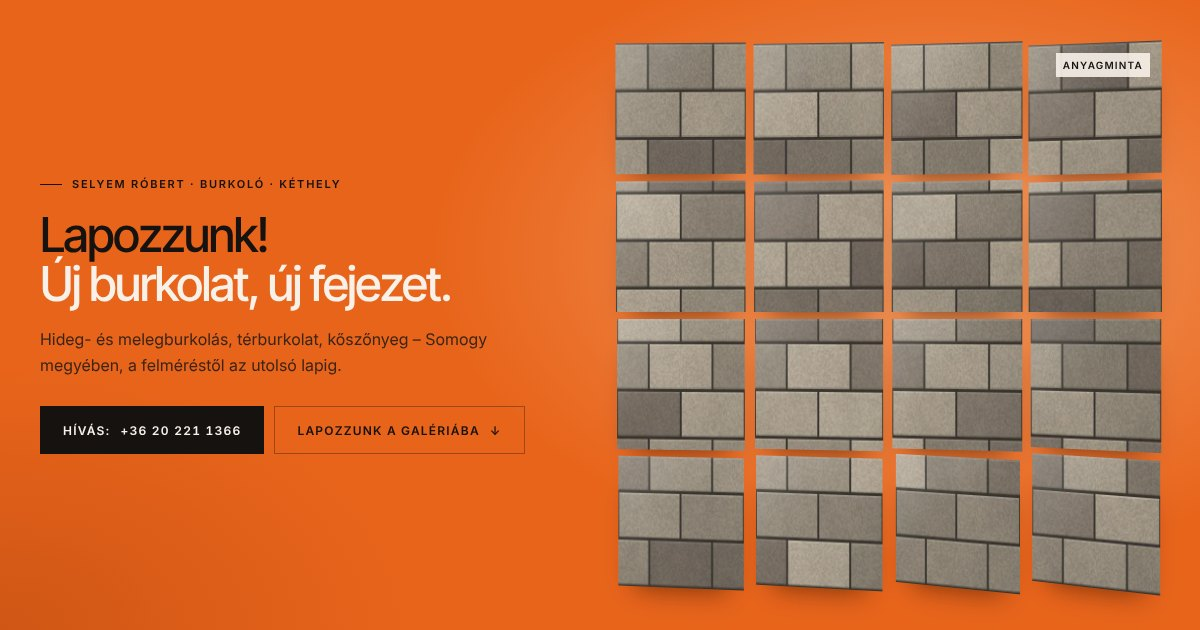
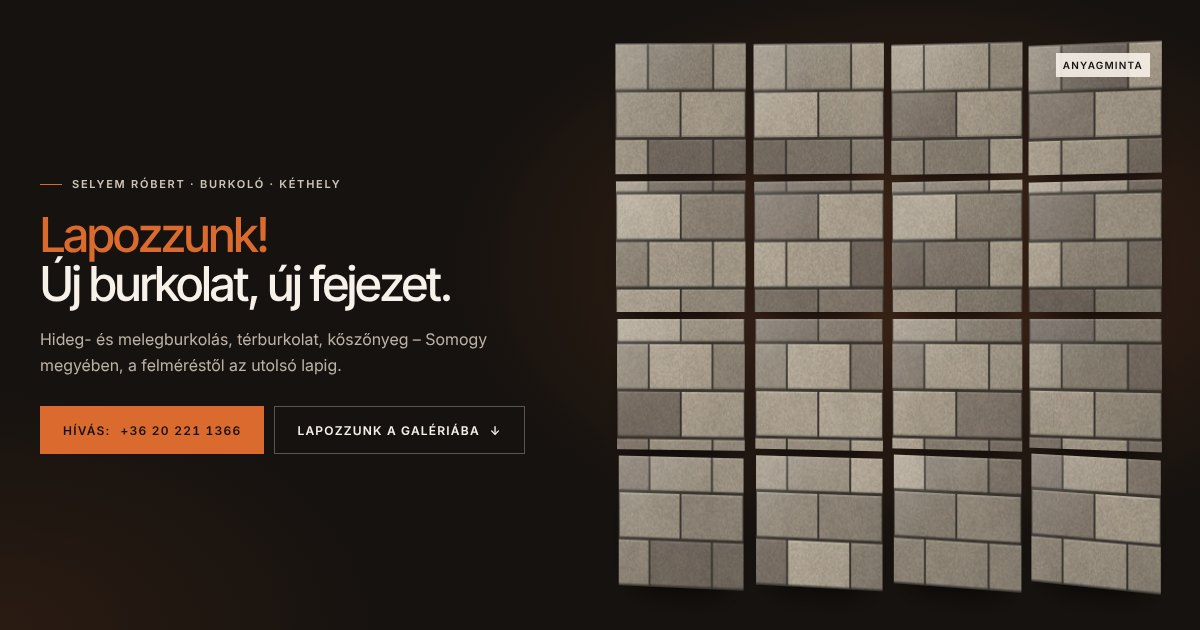
design(selyem-robert): narancs visszafogva hangsúlyszínné — sötét hero és kapcsolat, égetett narancs tónus
Claude-Session: https://claude.ai/code/session_011DdzeGTQ67UR68YKN6kvMf

diff --git a/public/latvanytervek/selyem-robert/index.html b/public/latvanytervek/selyem-robert/index.html
@@ -5,7 +5,7 @@
 <meta name="viewport" content="width=device-width, initial-scale=1.0, viewport-fit=cover">
 <title>Lapozzunk! Burkolás Kéthely, Somogy megye | Selyem Róbert E.V.</title>
 <meta name="description" content="Hidegburkolás, melegburkolás, térburkolat és kőszőnyeg Kéthelyen és Somogy megyében. Selyem Róbert burkoló – hívás: +36 20 221 1366.">
-<meta name="theme-color" content="#E8641B">
+<meta name="theme-color" content="#16120F">
 <meta property="og:title" content="Lapozzunk! | Selyem Róbert, burkoló – Kéthely">
 <meta property="og:description" content="Hidegburkolás, melegburkolás, térburkolat, kőszőnyeg – Somogy megyében.">
 <meta property="og:locale" content="hu_HU">
@@ -48,7 +48,7 @@
 </script>
 <style>
 :root{
-  --or:#E8641B; --or-d:#C04F10; --or-l:#F6A56C; --or-x:#FCE3D0;
+  --or:#DB6A2F; --or-d:#B5521F; --or-l:#F0A06F; --or-x:#FCE3D0;
   --ink:#16120F; --ink-2:#231D19; --ink-3:#2E2621;
   --cream:#F7F1E9; --sand:#E8DDD0; --muted:#8A7E73; --muted-d:#5E544B;
   --head:"Inter Tight","Inter","Helvetica Neue",Arial,sans-serif;
@@ -81,78 +81,81 @@ section[id]{scroll-margin-top:64px}
 .btn-or:hover{background:transparent;color:var(--or)}
 .btn-line{color:var(--ink);border-color:rgba(22,18,15,.35)}
 .btn-line:hover{border-color:var(--ink)}
+.btn-ghost{color:var(--cream);border-color:rgba(247,241,233,.3)}
+.btn-ghost:hover{border-color:var(--or);color:var(--or)}
 
 /* SR jel */
 .mk{width:30px;height:30px;flex:none;overflow:visible}
 .mk text{font-family:var(--head);font-weight:600;font-size:9px}
 
 /* Intró: lapozás */
-.intro{position:fixed;inset:0;z-index:200;background:var(--or);display:flex;flex-direction:column;align-items:center;justify-content:center;gap:18px;transform-origin:50% 0;transition:transform .9s var(--flip),opacity .9s ease;color:var(--ink)}
+.intro{position:fixed;inset:0;z-index:200;background:var(--ink);display:flex;flex-direction:column;align-items:center;justify-content:center;gap:18px;transform-origin:50% 0;transition:transform .9s var(--flip),opacity .9s ease;color:var(--cream)}
 .intro.out{transform:perspective(1400px) rotateX(88deg);opacity:0}
 .intro-t{display:grid;grid-template-columns:repeat(2,30px);gap:5px;perspective:400px}
-.intro-t i{width:30px;height:30px;background:var(--ink);transform:rotateY(90deg);animation:iflip .55s var(--flip) forwards}
-.intro-t i:nth-child(2){animation-delay:.1s;background:transparent;border:1.5px solid var(--ink)}
-.intro-t i:nth-child(3){animation-delay:.2s;background:transparent;border:1.5px solid var(--ink)}
-.intro-t i:nth-child(4){animation-delay:.3s;background:transparent;border:1.5px solid var(--ink)}
+.intro-t i{width:30px;height:30px;background:var(--or);transform:rotateY(90deg);animation:iflip .55s var(--flip) forwards}
+.intro-t i:nth-child(2){animation-delay:.1s;background:transparent;border:1.5px solid var(--cream)}
+.intro-t i:nth-child(3){animation-delay:.2s;background:transparent;border:1.5px solid var(--cream)}
+.intro-t i:nth-child(4){animation-delay:.3s;background:transparent;border:1.5px solid var(--cream)}
 @keyframes iflip{to{transform:none}}
 .intro b{font-family:var(--head);font-weight:500;font-size:clamp(1.5rem,3vw,2rem);letter-spacing:-.02em;opacity:0;animation:ifade .6s ease .45s forwards}
 @keyframes ifade{to{opacity:1}}
 
 /* Fejléc */
-.progress{position:fixed;left:0;top:0;height:3px;width:100%;z-index:60;background:var(--ink);transform-origin:left;transform:scaleX(0)}
-.head{position:fixed;inset:0 0 auto 0;z-index:50;display:flex;align-items:center;gap:28px;padding:16px var(--pad);color:var(--ink);transition:background .4s,color .4s,padding .4s,transform .5s var(--ease)}
+.progress{position:fixed;left:0;top:0;height:3px;width:100%;z-index:60;background:var(--or);transform-origin:left;transform:scaleX(0)}
+.head{position:fixed;inset:0 0 auto 0;z-index:50;display:flex;align-items:center;gap:28px;padding:16px var(--pad);color:var(--cream);transition:background .4s,color .4s,padding .4s,transform .5s var(--ease)}
 .head.on{background:rgba(22,18,15,.94);color:var(--cream);padding-top:10px;padding-bottom:10px;-webkit-backdrop-filter:blur(10px);backdrop-filter:blur(10px)}
 .head.hide{transform:translateY(-100%)}
 .brand{display:flex;align-items:center;gap:12px;margin-right:auto}
 .brand span{display:flex;flex-direction:column;line-height:1.15}
 .brand b{font-family:var(--head);font-weight:600;font-size:14px;letter-spacing:.08em}
 .brand small{font-size:10px;letter-spacing:.14em;opacity:.7}
-.head .mk .t1{fill:var(--ink)}.head.on .mk .t1{fill:var(--or)}
-.head .mk .tx1{fill:var(--or)}.head.on .mk .tx1{fill:var(--ink)}
+.head .mk .t1{fill:var(--or)}
+.head .mk .tx1{fill:var(--ink)}
 .nav{display:none;gap:28px}
 .nav a{font-size:13px;font-weight:500;position:relative;padding:4px 0}
 .nav a::after{content:"";position:absolute;left:0;right:100%;bottom:0;height:1.5px;background:currentColor;transition:right .35s var(--ease)}
 .nav a:hover::after{right:0}
 .hcall{display:none;min-height:40px;padding:0 16px;font-size:12px}
-.head .hcall{background:var(--ink);color:var(--cream);border-color:var(--ink)}
+.head .hcall{background:var(--or);color:var(--ink);border-color:var(--or)}
 .head.on .hcall{background:var(--or);color:var(--ink);border-color:var(--or)}
 .mbtn{min-height:44px;font-weight:600;font-size:12px;letter-spacing:.16em;display:inline-flex;align-items:center;gap:10px}
 .mbtn i{width:20px;height:7px;border-top:1.5px solid currentColor;border-bottom:1.5px solid currentColor}
 @media (min-width:1024px){.nav,.hcall{display:flex}.mbtn{display:none}}
-.menu{position:fixed;inset:0;z-index:55;background:var(--or);color:var(--ink);display:flex;flex-direction:column;justify-content:center;gap:6px;padding:90px var(--pad) 40px;transform-origin:50% 0;transform:perspective(1400px) rotateX(-90deg);visibility:hidden;transition:transform .7s var(--flip),visibility 0s .7s}
+.menu{position:fixed;inset:0;z-index:55;background:var(--ink);color:var(--cream);display:flex;flex-direction:column;justify-content:center;gap:6px;padding:90px var(--pad) 40px;transform-origin:50% 0;transform:perspective(1400px) rotateX(-90deg);visibility:hidden;transition:transform .7s var(--flip),visibility 0s .7s}
 .menu.open{transform:none;visibility:visible;transition:transform .7s var(--flip)}
-.menu a{font-family:var(--head);font-weight:500;font-size:clamp(1.75rem,8vw,2.5rem);letter-spacing:-.02em;border-bottom:1px solid rgba(22,18,15,.2);padding:8px 0}
-.menu .btn{margin-top:24px;align-self:flex-start;font-size:12px;border-bottom:1px solid var(--ink)}
-body.menu-open .head{color:var(--ink);background:transparent}
+.menu a{font-family:var(--head);font-weight:500;font-size:clamp(1.75rem,8vw,2.5rem);letter-spacing:-.02em;border-bottom:1px solid rgba(247,241,233,.12);padding:8px 0}
+.menu .btn{margin-top:24px;align-self:flex-start;font-size:12px;background:var(--or);color:var(--ink);border-color:var(--or)}
+body.menu-open .head{color:var(--cream);background:transparent}
 body.menu-open .head .hcall{display:none}
 
 /* Hero */
-.hero{position:relative;background:var(--or);color:var(--ink);overflow:hidden;padding:120px var(--pad) 72px;min-height:min(100svh,860px);display:grid;align-items:center}
-.hero::before{content:"";position:absolute;inset:0;background:radial-gradient(60% 70% at 78% 40%,rgba(255,214,170,.45),transparent 70%),radial-gradient(50% 60% at 0% 100%,rgba(160,60,10,.35),transparent 70%);pointer-events:none}
+.hero{position:relative;background:var(--ink);color:var(--cream);overflow:hidden;padding:120px var(--pad) 72px;min-height:min(100svh,860px);display:grid;align-items:center}
+.hero::before{content:"";position:absolute;inset:0;background:radial-gradient(55% 65% at 76% 42%,rgba(219,106,47,.22),transparent 70%),radial-gradient(45% 55% at 0% 100%,rgba(219,106,47,.10),transparent 70%);pointer-events:none}
 .hero-g{position:relative;display:grid;gap:44px;align-items:center}
 @media (min-width:960px){.hero-g{grid-template-columns:minmax(0,1fr) minmax(0,1.05fr);gap:56px}}
 .hero .k{display:flex;align-items:center;gap:10px}
-.hero .k::before{content:"";width:22px;height:1.5px;background:var(--ink)}
+.hero .k{color:#CFC4B8}.hero .k::before{content:"";width:22px;height:1.5px;background:var(--or)}
 .hero h1{font-family:var(--head);font-weight:500;letter-spacing:-.035em;line-height:1.02;font-size:clamp(2.25rem,4vw,3.5rem);margin:18px 0 18px}
-.hero h1 em{font-style:normal;display:block;color:var(--cream)}
-.hero p.lead{font-size:16px;max-width:30em;color:#3A2416}
+.hero h1 .lp{color:var(--or)}.hero h1 em{font-style:normal;display:block;color:var(--cream)}
+.hero p.lead{font-size:16px;max-width:30em;color:#BDB2A6}
 .hero-cta{display:flex;flex-wrap:wrap;gap:10px;margin-top:28px}
 /* lapozó csempefal */
 .wall{position:relative}
 .tiles{display:grid;grid-template-columns:repeat(4,1fr);gap:7px;perspective:1100px}
 .tl{aspect-ratio:1;position:relative;transform-style:preserve-3d;transition:transform .95s var(--flip)}
-.tl .f{position:absolute;inset:0;backface-visibility:hidden;-webkit-backface-visibility:hidden;background-repeat:no-repeat;box-shadow:0 18px 26px -18px rgba(60,20,0,.7),0 2px 0 rgba(255,255,255,.08) inset}
+.tl .f{position:absolute;inset:0;backface-visibility:hidden;-webkit-backface-visibility:hidden;background-repeat:no-repeat;box-shadow:0 20px 30px -18px rgba(0,0,0,.8),0 2px 0 rgba(255,255,255,.08) inset}
 .tl .f::after{content:"";position:absolute;inset:0;background:linear-gradient(135deg,rgba(255,255,255,.18),transparent 45%,rgba(0,0,0,.08))}
 .tl .b{transform:rotateY(180deg)}
 .wall-cap{display:flex;justify-content:space-between;align-items:center;gap:14px;margin-top:16px;font-size:13px}
 .wall-cap b{font-family:var(--head);font-weight:600;font-size:15px}
 .wall-cap .pg{display:flex;align-items:center;gap:8px}
-.wall-cap .pg button{width:36px;height:36px;border:1px solid rgba(22,18,15,.35);display:inline-flex;align-items:center;justify-content:center;transition:background .3s,color .3s}
-.wall-cap .pg button:hover{background:var(--ink);color:var(--or)}
+.wall-cap{color:#CFC4B8}.wall-cap b{color:var(--cream)}
+.wall-cap .pg button{width:36px;height:36px;border:1px solid rgba(247,241,233,.25);display:inline-flex;align-items:center;justify-content:center;transition:background .3s,color .3s}
+.wall-cap .pg button:hover{background:var(--or);border-color:var(--or);color:var(--ink)}
 .wall-tag{position:absolute;right:10px;top:10px;z-index:2;font-size:10px;font-weight:600;letter-spacing:.12em;text-transform:uppercase;background:rgba(247,241,233,.9);color:var(--ink);padding:4px 7px}
 
 /* Galéria */
-.gal{background:var(--ink);padding:clamp(64px,8vw,112px) var(--pad)}
+.gal{background:var(--ink-2);border-top:1px solid rgba(247,241,233,.06);padding:clamp(64px,8vw,112px) var(--pad)}
 .g-head{display:flex;flex-wrap:wrap;justify-content:space-between;align-items:flex-end;gap:18px 32px;margin-bottom:28px}
 .g-head .k{color:var(--or)}
 .g-head .h2{margin-top:10px}
@@ -210,20 +213,21 @@ body.menu-open .head .hcall{display:none}
 .ba-cap{margin-top:12px;font-size:13px;color:var(--muted-d)}
 
 /* Kapcsolat */
-.contact{background:var(--or);color:var(--ink);padding:clamp(64px,8vw,112px) var(--pad);position:relative;overflow:hidden}
-.contact::before{content:"";position:absolute;right:-6%;top:-30%;width:min(56vw,640px);aspect-ratio:1;background-image:linear-gradient(rgba(22,18,15,.12) 1.5px,transparent 1.5px),linear-gradient(90deg,rgba(22,18,15,.12) 1.5px,transparent 1.5px);background-size:25% 25%;transform:rotate(12deg);pointer-events:none}
+.contact{background:var(--ink);color:var(--cream);border-top:1px solid rgba(247,241,233,.06);padding:clamp(64px,8vw,112px) var(--pad);position:relative;overflow:hidden}
+.contact::before{content:"";position:absolute;right:-6%;top:-30%;width:min(56vw,640px);aspect-ratio:1;background-image:linear-gradient(rgba(219,106,47,.14) 1.5px,transparent 1.5px),linear-gradient(90deg,rgba(219,106,47,.14) 1.5px,transparent 1.5px);background-size:25% 25%;transform:rotate(12deg);pointer-events:none}
 .ct-g{position:relative;display:grid;gap:32px;align-items:end}
 @media (min-width:900px){.ct-g{grid-template-columns:minmax(0,1.2fr) minmax(0,1fr)}}
 .contact .h2{font-size:clamp(1.9rem,3vw,2.75rem)}
-.contact p{margin-top:12px;max-width:28em;color:#3A2416}
-.ct-list{border-top:1.5px solid var(--ink)}
-.ct-list a,.ct-list div{display:flex;justify-content:space-between;align-items:center;gap:14px;padding:14px 0;border-bottom:1px solid rgba(22,18,15,.25);font-size:15px}
-.ct-list span{font-size:11px;font-weight:600;letter-spacing:.14em;text-transform:uppercase;color:#5A2C0E}
+.contact .k{color:var(--or)}.contact .h2 .lp{color:var(--or)}
+.contact p{margin-top:12px;max-width:28em;color:#BDB2A6}
+.ct-list{border-top:1.5px solid var(--or)}
+.ct-list a,.ct-list div{display:flex;justify-content:space-between;align-items:center;gap:14px;padding:14px 0;border-bottom:1px solid rgba(247,241,233,.14);font-size:15px}
+.ct-list span{font-size:11px;font-weight:600;letter-spacing:.14em;text-transform:uppercase;color:var(--muted)}
 .ct-list a b{font-family:var(--head);font-weight:600;font-size:clamp(17px,1.5vw,20px)}
-.ct-list a:hover b{text-decoration:underline;text-underline-offset:4px}
+.ct-list a:hover b{color:var(--or)}
 
 /* Lábléc */
-.foot{background:var(--ink);color:#CFC4B8;padding:28px var(--pad) calc(24px + env(safe-area-inset-bottom));display:flex;flex-wrap:wrap;justify-content:space-between;align-items:center;gap:14px;font-size:13px}
+.foot{background:#0F0C0A;color:#CFC4B8;padding:28px var(--pad) calc(24px + env(safe-area-inset-bottom));display:flex;flex-wrap:wrap;justify-content:space-between;align-items:center;gap:14px;font-size:13px}
 .foot .brand{margin:0;color:var(--cream)}
 .foot .brand .t1{fill:var(--or)}.foot .brand .tx1{fill:var(--ink)}
 .foot em{font-style:normal;color:var(--or)}
@@ -289,11 +293,11 @@ html.js [data-r].in{opacity:1;transform:none}
     <div class="hero-g">
       <div data-r>
         <p class="k">Selyem Róbert · burkoló · Kéthely</p>
-        <h1 id="h1">Lapozzunk! <em>Új burkolat, új fejezet.</em></h1>
+        <h1 id="h1"><span class="lp">Lapozzunk!</span> <em>Új burkolat, új fejezet.</em></h1>
         <p class="lead">Hideg- és melegburkolás, térburkolat, kőszőnyeg – Somogy megyében, a felméréstől az utolsó lapig.</p>
         <div class="hero-cta">
-          <a class="btn btn-ink" href="tel:+36202211366">Hívás: <span class="num">+36 20 221 1366</span></a>
-          <a class="btn btn-line" href="#galeria">Lapozzunk a galériába <span class="ar">↓</span></a>
+          <a class="btn btn-or" href="tel:+36202211366">Hívás: <span class="num">+36 20 221 1366</span></a>
+          <a class="btn btn-ghost" href="#galeria">Lapozzunk a galériába <span class="ar">↓</span></a>
         </div>
       </div>
       <div class="wall" data-r>
@@ -357,7 +361,7 @@ html.js [data-r].in{opacity:1;transform:none}
     <div class="ct-g">
       <div data-r>
         <p class="k">Kapcsolat</p>
-        <h2 class="h2" id="ct-h" style="margin-top:10px">Lapozzunk! Hívjon.</h2>
+        <h2 class="h2" id="ct-h" style="margin-top:10px"><span class="lp">Lapozzunk!</span> Hívjon.</h2>
         <p>Pár perc alatt átbeszéljük, mit szeretne. A részleteket a felmérésen pontosítjuk.</p>
       </div>
       <div class="ct-list" data-r>

diff --git a/public/latvanytervek/README.md b/public/latvanytervek/README.md
@@ -11,5 +11,5 @@
 | Mappa | Ügyfél | Megjegyzés |
 |---|---|---|
 | `godzsak-tamas/` | Godzsák Tamás E.V. — teljes lakás- és házfelújítás, Budapest | Sötét, rajzlap-alapú art direction. Nincs valódi fotó: a képhelyeken generált anyagtextúra + vázlat, a `PROJECTS` / `REVIEWS` / `CRAFT` tömbökben `src`-vel cserélhető. Az értékelés-idézetek helyőrzők (5,0 / 2 értékelés valós). Űrlap még nincs bekötve. |
-| `selyem-robert/` | Selyem Róbert E.V. — burkolás, Kéthely | **Átadható — lásd `selyem-robert/ATADAS.md`.** „Lapozzunk!” koncepció: narancs-domináns, rövid (4 blokk), lapozó csempefal a heróban, 4 kategóriás lapozható galéria (hideg, meleg, térburkolat, kőszőnyeg), előtte–utána csúszka. Anyagminták az `img/`-ben (programból rajzolt, nem fotó). Csak hívás. Inter Tight + Inter (Fraunces tilos). |
+| `selyem-robert/` | Selyem Róbert E.V. — burkolás, Kéthely | **Átadható — lásd `selyem-robert/ATADAS.md`.** „Lapozzunk!” koncepció: narancs hangsúly sötét–krém alapon, rövid (4 blokk), lapozó csempefal a heróban, 4 kategóriás lapozható galéria (hideg, meleg, térburkolat, kőszőnyeg), előtte–utána csúszka. Anyagminták az `img/`-ben (programból rajzolt, nem fotó). Csak hívás. Inter Tight + Inter (Fraunces tilos). |
 | `art-ert/` | ART ÉRT Alapítvány / patakinfo.hu — kulturális, művészeti, oktatási szervezet, Sárospatak | Kezdőoldal, 14 szekció, külön mobilterv. Newsreader + Instrument Sans. A fotók Unsplash-helyőrzők (hotlink), a valódi intézményi fotókra cserélendők. Helyőrző adatok: adószám (`18000000-1-05`), telefonszámok, pontos címek, a történet évszámai/eseményei (1999–2026), a mottó szövege, a pályázatok és a dokumentumok listája — mind ügyféltől egyeztetendő. Az űrlapok és a Bertalan-ház érdeklődő sáv nincsenek bekötve. |

diff --git a/public/latvanytervek/selyem-robert/ATADAS.md b/public/latvanytervek/selyem-robert/ATADAS.md
@@ -7,7 +7,7 @@
 
 Szlogen: **„Lapozzunk!”** (lap = burkolólap). Ez végigfut az oldalon: intró, hero cím, „Lapozzunk a galériába” gomb, a galéria „Lapozzunk →” gombja, a kapcsolat címe, a lábléc és a mobil hívássáv.
 
-- Narancs a domináns szín, mellette sötét és krém.
+- Narancs hangsúlyszín (cím, gombok, fülek, jelzések) meleg sötét és krém alapon.
 - Rövid oldal, négy blokk: Hero, Galéria, Rólam (benne az előtte–utána csúszka), Kapcsolat.
 - A hero csempefala lapozásszerűen fordul át a négy anyagon.
 - A galéria négy kategóriára lapozható: Hidegburkolás, Melegburkolás, Térburkolat, Kőszőnyeg. Működik fülekkel, gombbal és mobilon húzással.
